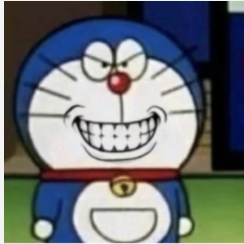
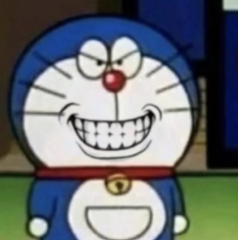
updated readme.md and doraemon sticker

diff --git a/projects/mini-proj-4/bug-project/README.md b/projects/mini-proj-4/bug-project/README.md
@@ -1,4 +1,8 @@
-# Hehe Doraemon
-A browser extension that populates any page with a hehe Doraemon sticker.
+# hehe doraemon
+A browser extension that populates any web page with a hehe Doraemon sticker.
 
-Install this on your friends browsers to prank them. Clicking on the clown icon will infest their page with a bit of fun.
+Install this on your friends browsers to prank them. The doraemons won't go away until they find and click on the clown icon.  
+
+<p align="center"><img width="50%" src="hehe-doraemon.png"></p>
+
+<img width="100%" src="readme_assets/hehe-doraemon-preview.gif">
